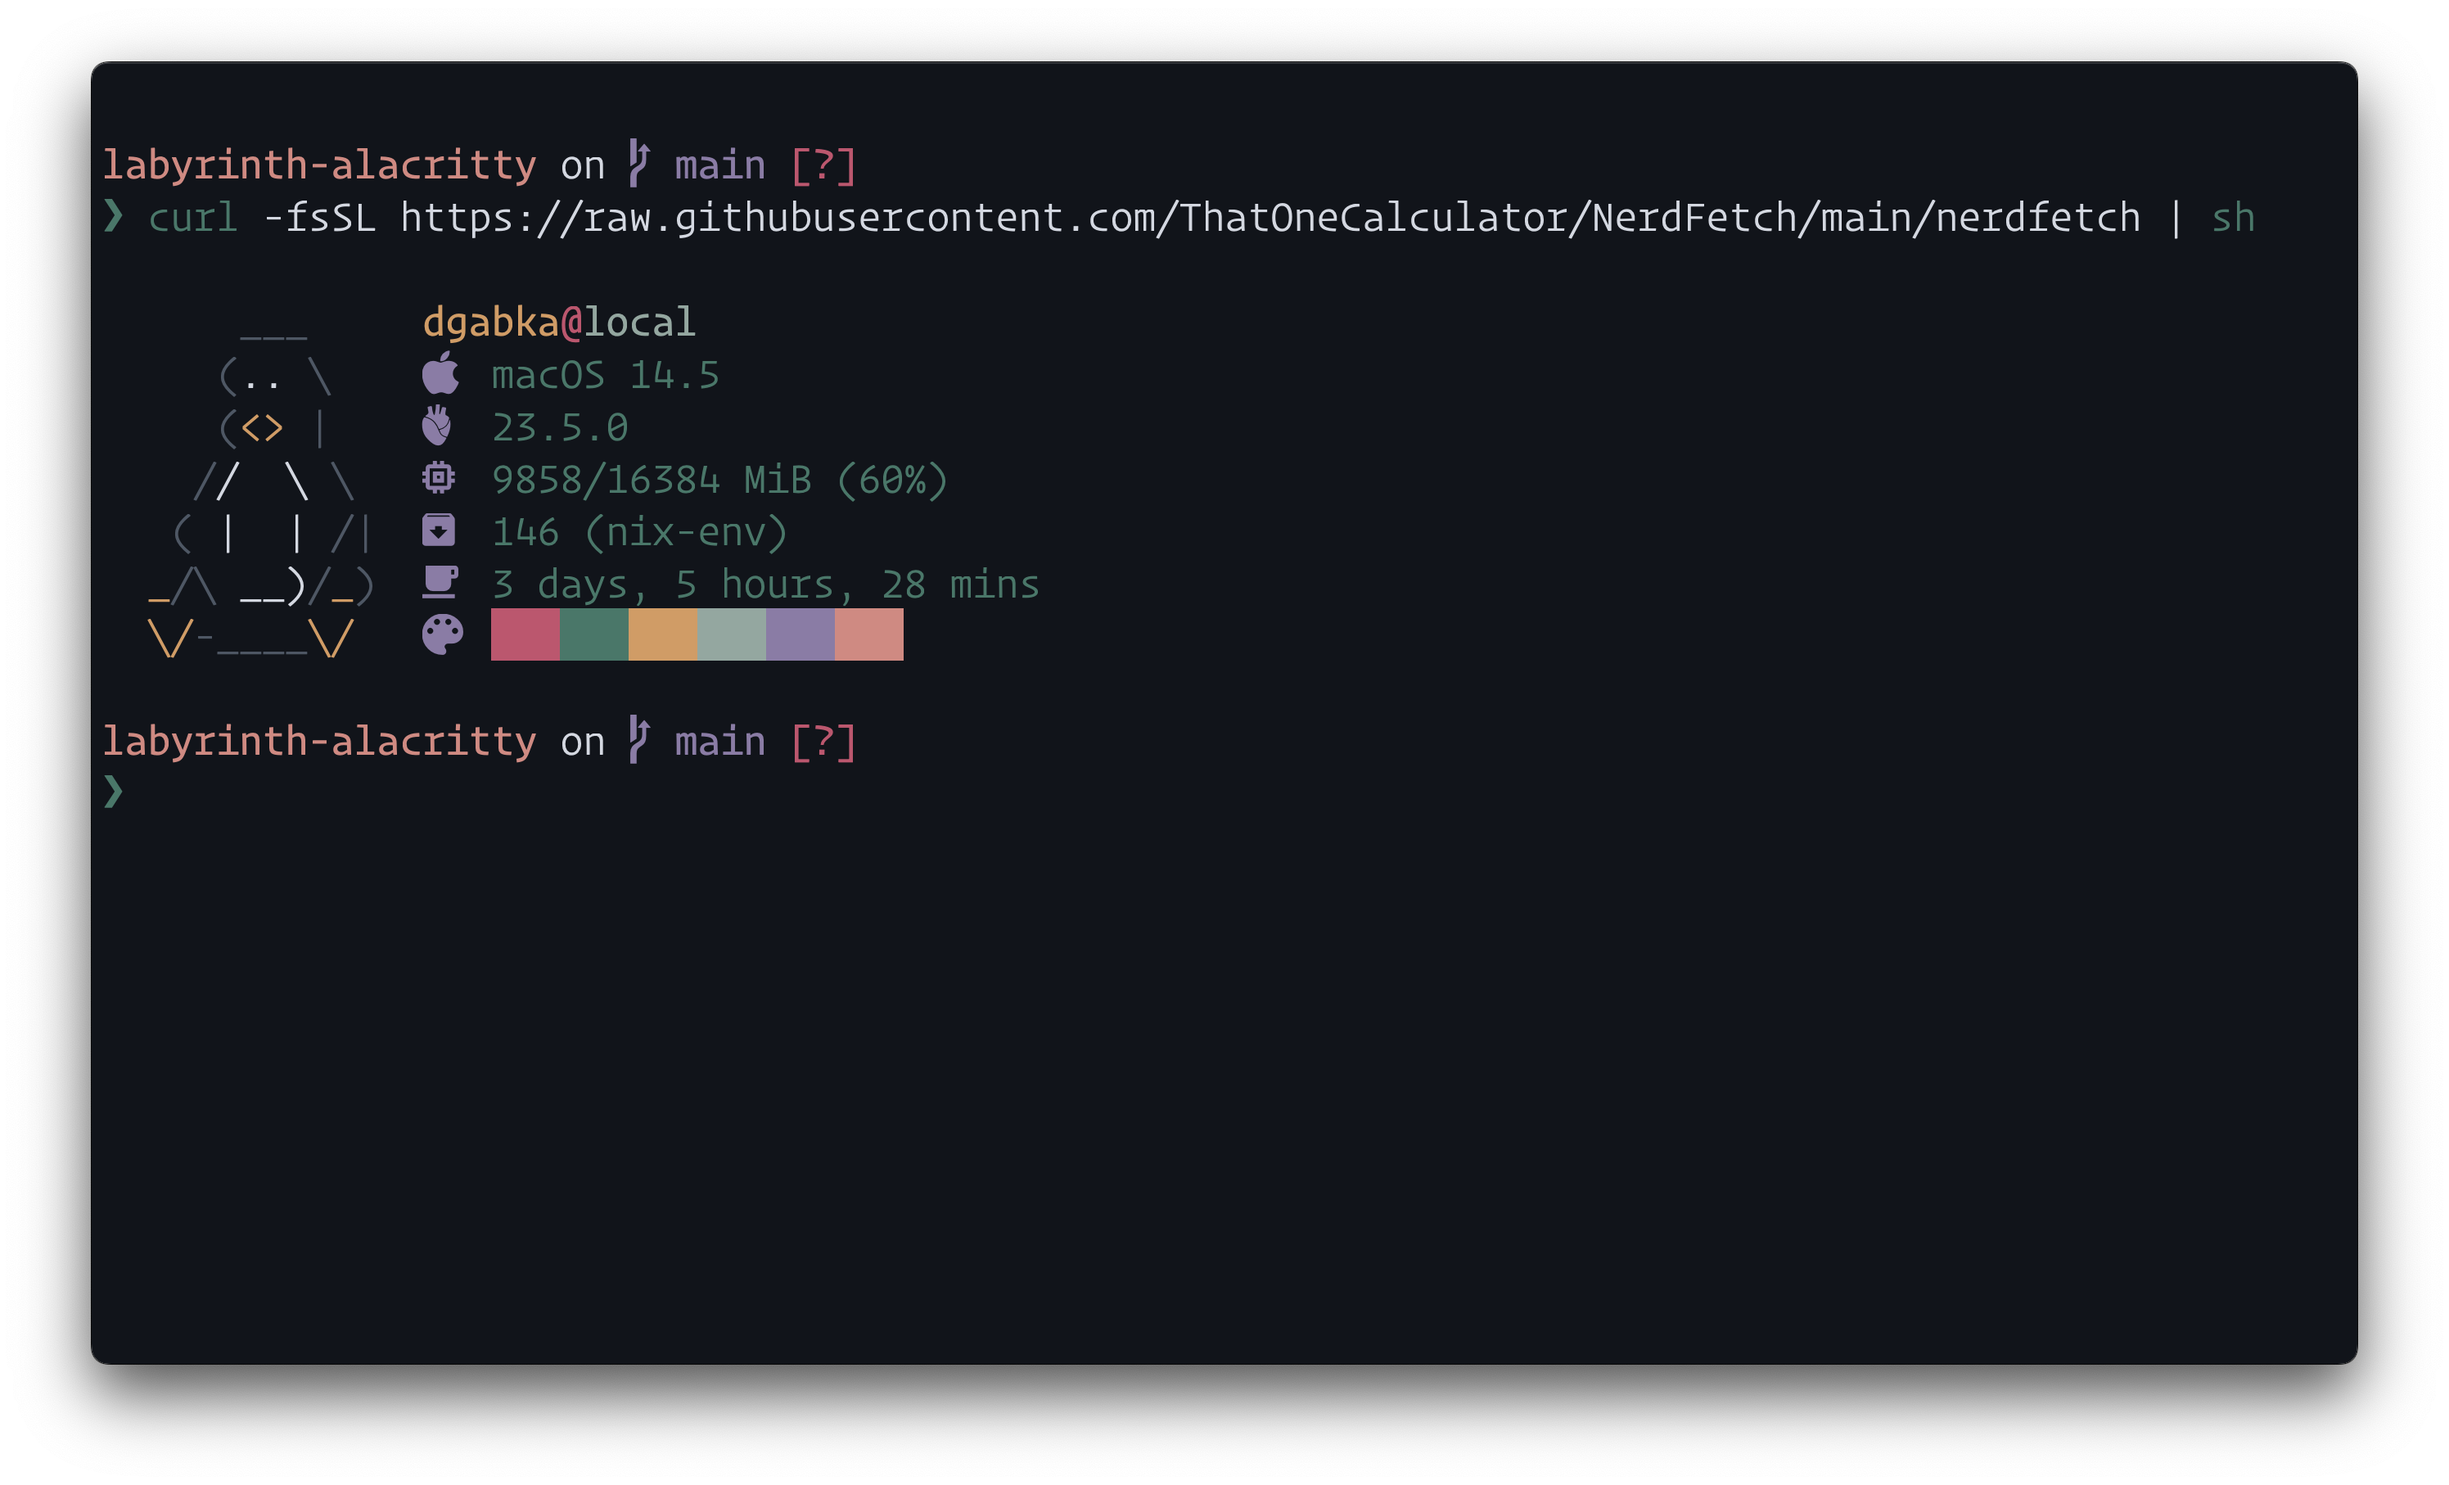
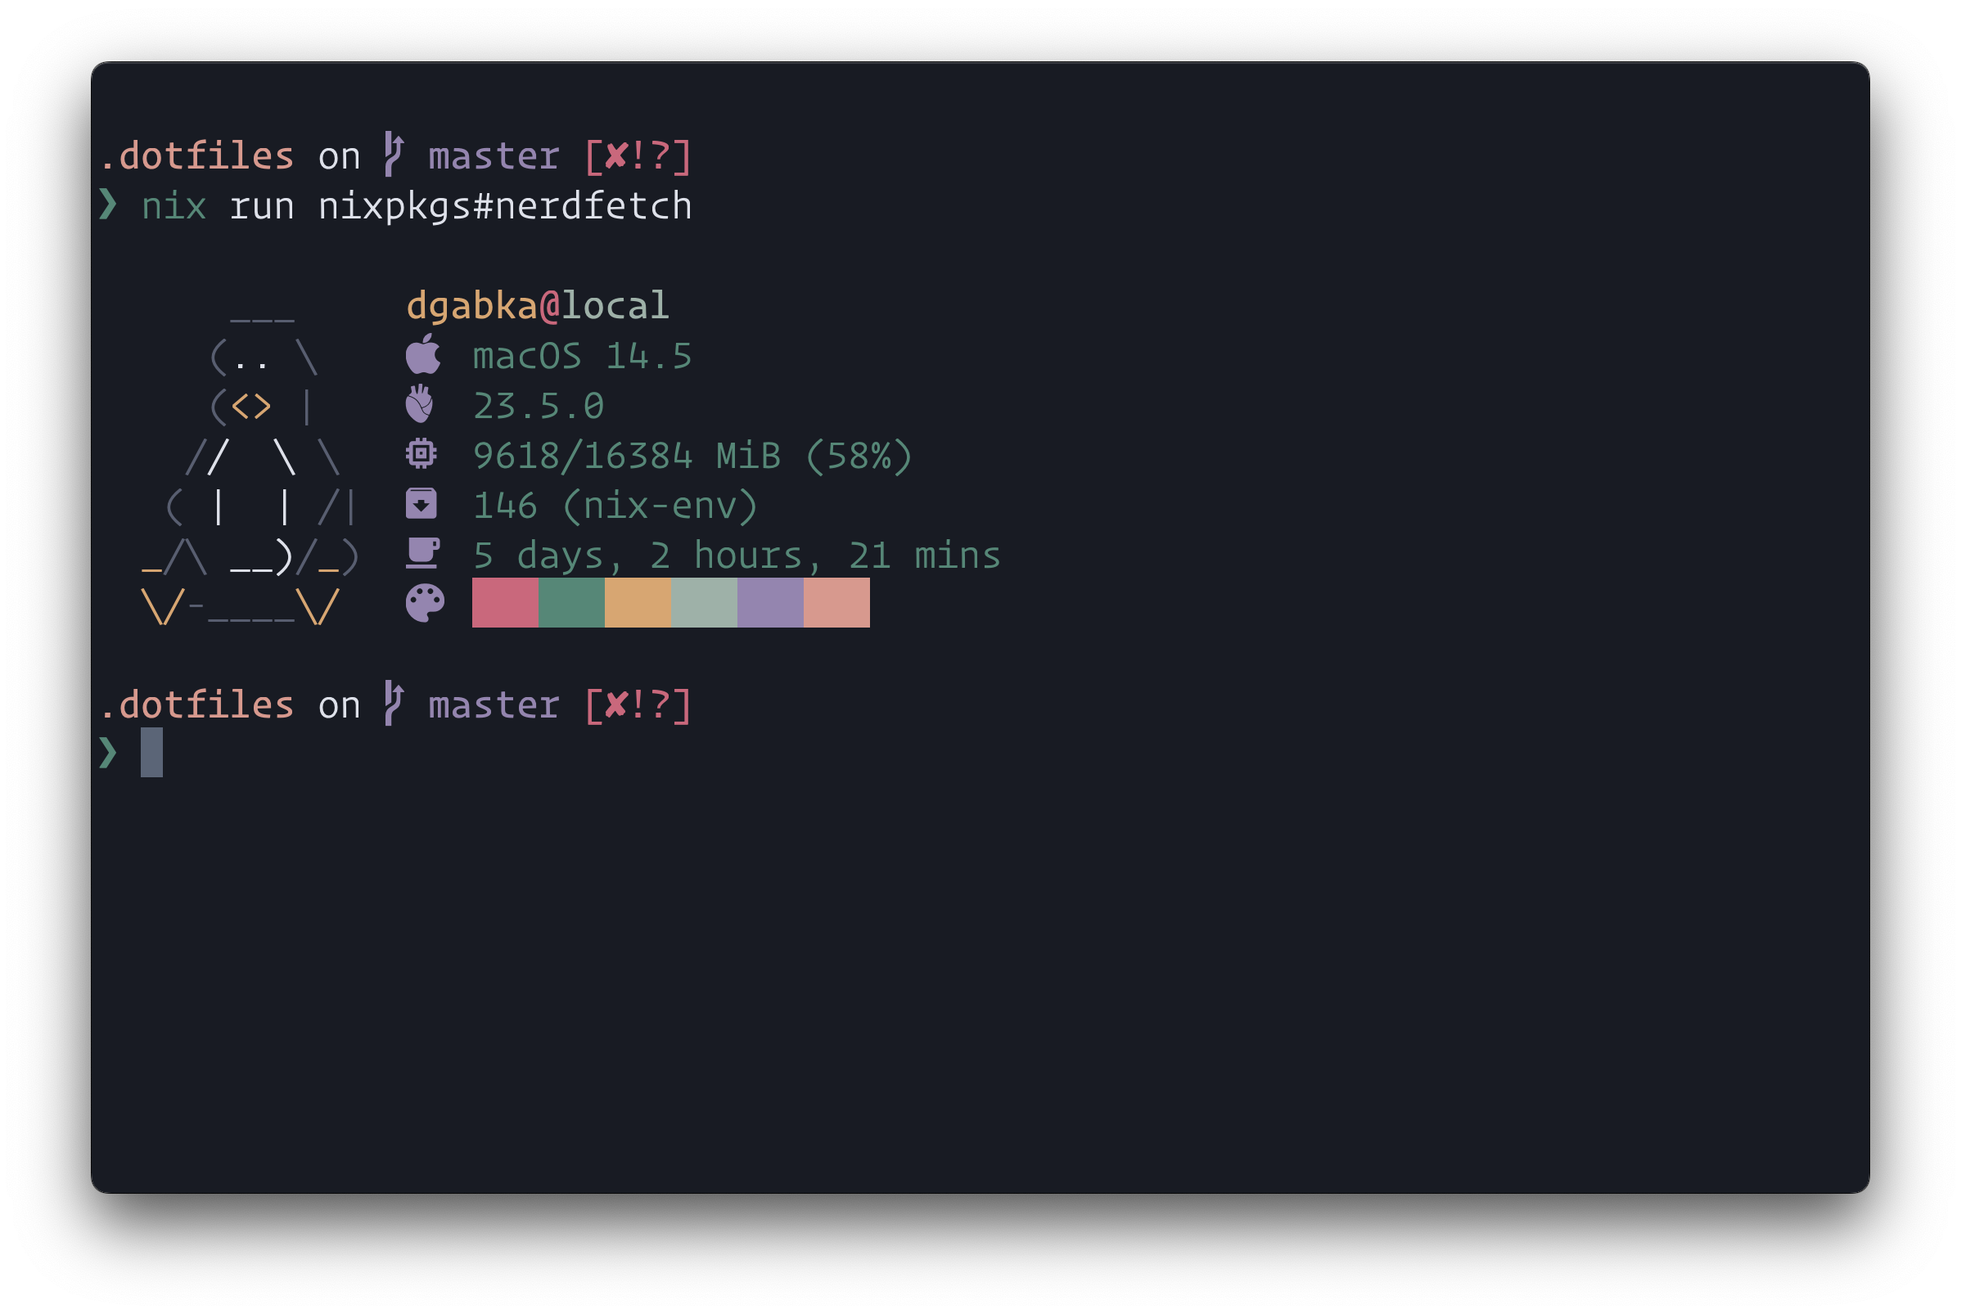
add new variants

Changed region(s): [[0.0309, 0.0311, 0.9883, 0.9651], [0.4324, 0.3425, 0.4633, 0.3736]]

diff --git a/README.md b/README.md
@@ -1,6 +1,17 @@
-# Labyrinth
+# 🌿 Labyrinth
 
-## Usage
+Discover Labyrinth, a serene color scheme inspired by hidden pathways and mossy landscapes. Let its gentle tones guide your creativity with calm elegance.
+
+Labyrinth provides four distinct variants with varying levels of contrast and color vibrancy to suit your preferences:
+
+ - Dusk: The most contrasty variant, perfect for those who prefer sharp distinctions and vibrant colors.
+ - Shade: A balanced variant, offering a comfortable middle ground with moderate contrast and vibrancy.
+ - Gloom: A softer variant with reduced contrast, ideal for a more subdued and relaxed visual experience.
+ - Mist: The least contrasty variant, featuring the most gentle and subtle tones for a calm and unobtrusive interface.
+
+Whether you're coding, designing, or simply exploring new aesthetics, Labyrinth adapts to your needs with its harmonious palette.
+
+## Getting started
 
 1. Locate (or create) Alacritty's config file (refer to [the *Configuration* section of Alacritty's readme](https://github.com/alacritty/alacritty/tree/master#configuration))
 2. Clone this repository
@@ -32,6 +43,10 @@ import = ["~/.config/alacritty/labyrinth-dusk.toml"]
 
 Fetch featured below is [NerdFetch](https://github.com/thatonecalculator/nerdfetch)
 
+**Labyrinth Gloom**
+
+![Alacritty with Labyrinth Gloom](assets/gloom.png)
+
 **Labyrinth Dusk**
 
 ![Alacritty with Labyrinth Dusk](assets/dusk.png)
@@ -40,3 +55,11 @@ Fetch featured below is [NerdFetch](https://github.com/thatonecalculator/nerdfet
 
 ![Alacritty with Labyrinth Shade](assets/shade.png)
 
+**Labyrinth Mist**
+
+![Alacritty with Labyrinth Mist](assets/mist.png)
+
+### Credits
+
+Thanks to the [Rosé Pine](https://github.com/rose-pine) creators!
+A special thanks to [Rosé Pine for Alacritty](https://github.com/rose-pine/alacritty) which this theme is based on.
